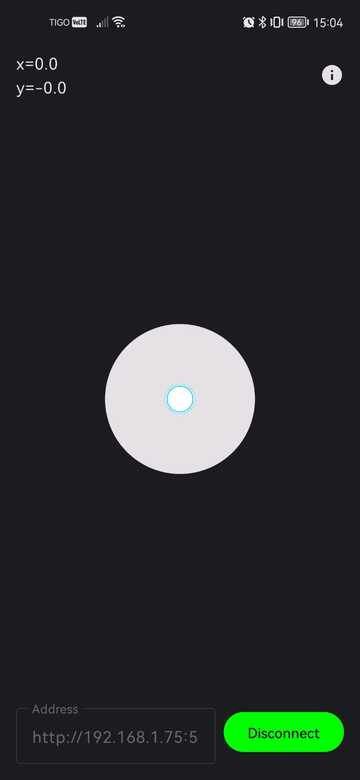
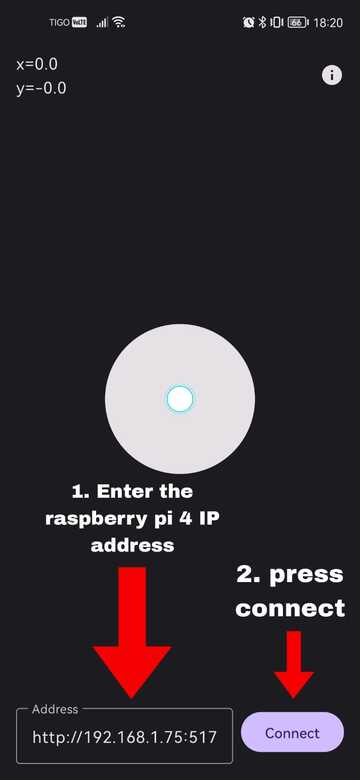
Doc: Hardware Documentation

diff --git a/content/en/docs/guides/conections_/index.md b/content/en/docs/guides/conections_/index.md
@@ -1,23 +1,20 @@
 ---
-title: "Zumo Shield v1.2 - Raspberry Pi 4 wire connection"
-linktitle: "Wire implementation"
+title: "Raspberry Pi 4 and Zumo Shield v1.2 connection" 
+linktitle: "Raspberry Pi 4 and Zumo Shield v1.2 connection" 
 date: 2023-07-20
 weight: 1
 collapsible: false
 ---
 
 
-## Wire connection
+## Connection
 
-{{< alert title="DataSheet" >}}
-You can check datasheet of Raspberry Pi 4 from [DataSheet](https://datasheets.raspberrypi.com/rpi4/raspberry-pi-4-datasheet.pdf).
+The next image shows the connection between the **Raspberry Pi 4** and **ZumoShield v1.2**
 
-**You can check the following steps using DataSheet.** 
-{{< /alert >}}
+<br>
 
 ![](zumo_shield-RPi_connection.png)
-
-
+<br>
 
 | Pin | Wire Color |
 |-----|------------|
@@ -25,6 +22,9 @@ You can check datasheet of Raspberry Pi 4 from [DataSheet](https://datasheets.ra
 | SCL | Yellow     |
 | 5V  | Red        |
 | GND | Black      |
+
+
+> **DataSheet:** Check out the Raspberry Pi 4 Datasheet [here](https://datasheets.raspberrypi.com/rpi4/raspberry-pi-4-datasheet.pdf) for more details.
 
 
 > **Note:** These connections are only for the zumo shield 1.2 and raspberry pi 4 versions, if You have other versions please read the corresponding documentation before making the connections.

diff --git a/content/en/docs/guides/setup/android_start/index.md b/content/en/docs/guides/setup/android_start/index.md
@@ -1,15 +1,19 @@
 ---
-title: "Android start"
-linktitle: "Download APK"
+title: "Install phone app"
+linktitle: "Install phone app"
 date: 2023-07-24
-weight: 5
+weight: 1
 collapsible: false
 ---
 
-You can download the APK following the next link: [APK](https://github.com/aldajo92/AndroidKt_JoyWebSocket/releases/download/1.0/JoyWebSocket.apk).
+{{< alert title="APK download" >}}
+Download the APK following the next link: [APK](https://github.com/aldajo92/AndroidKt_JoyWebSocket/releases/download/1.0/JoyWebSocket.apk).
+{{< /alert >}}
 
-After you intall the APK on your phone, just connect to the Raspberry Pi 4 ip.
+After installing the APK on your phone, connect using the Raspberry Pi 4 IP address.
 
 ![](app.jpg)
 
-> **Note:** You can found the code of the apk in the next link [APK documentation](https://github.com/aldajo92/AndroidKt_JoyWebSocket).
+<br>
+
+> **Note:** You can access the APK code through the following link: [APK documentation](https://github.com/aldajo92/AndroidKt_JoyWebSocket).
